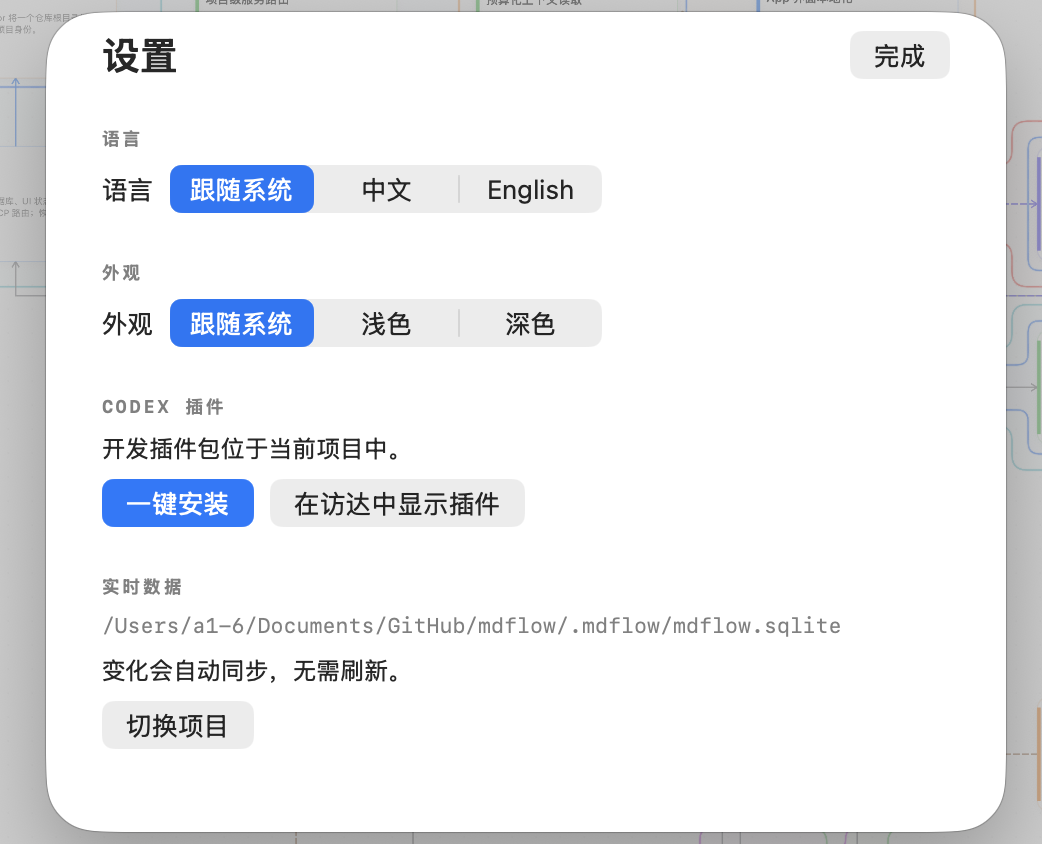
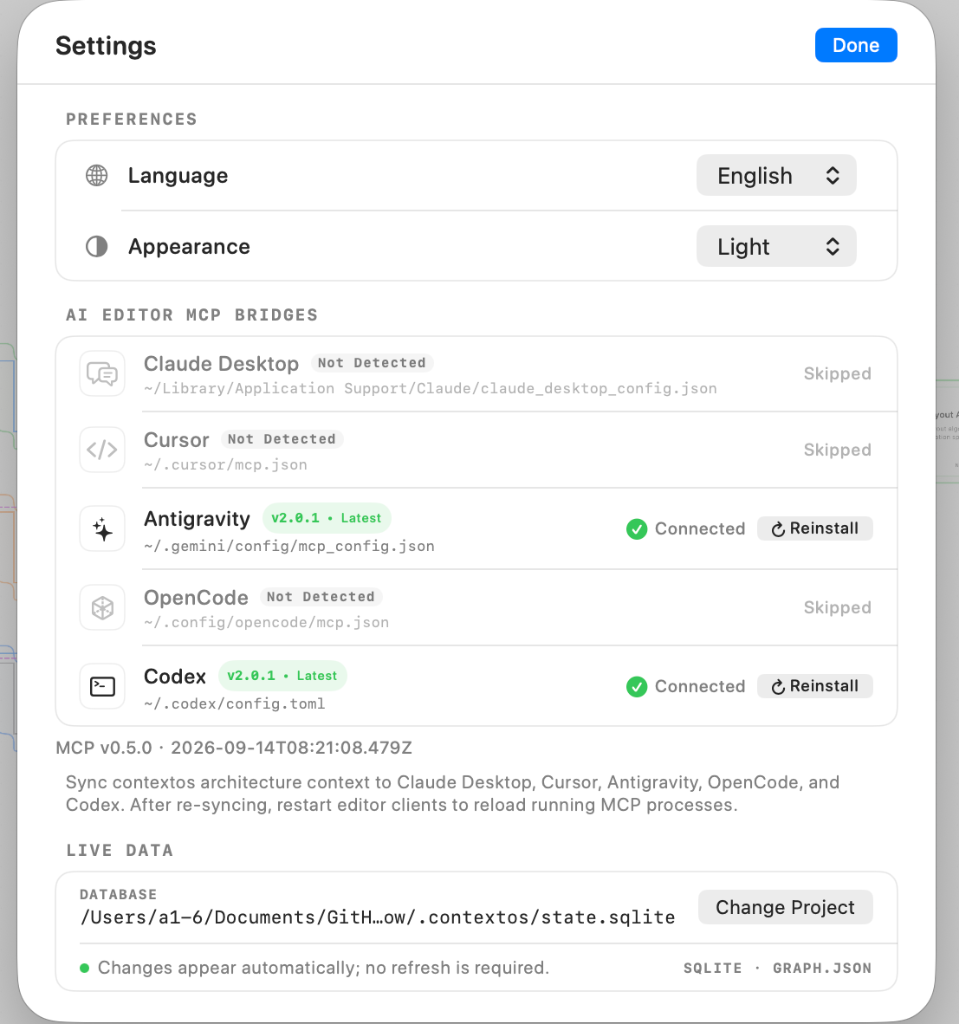
feat(v2.0.2): dual macOS app packaging (Standard & Full), pure English README, and updated settings screenshot

diff --git a/README.md b/README.md
@@ -2,7 +2,7 @@
   <img src="assets/logo.png" width="76" alt="ContextOS" />
   <h1>Automated Context Management: Cut 90% of AI Coding Context Waste.</h1>
   <p><strong>Stopping context window explosion and hallucination in large codebases: surgical AST read/write instead of dumping whole files, out-of-context command receipts, and an intuitive Metro Map architecture.</strong></p>
-  <p><a href="https://github.com/yubinbin32-ops/ContextOS/releases/latest"><strong>Download macOS Desktop App</strong></a> · <a href="#start-in-three-minutes">Start in three minutes</a> · <a href="README_zh.md">中文说明</a></p>
+  <p><a href="https://github.com/yubinbin32-ops/ContextOS/releases/latest"><strong>Download macOS Desktop App</strong></a> · <a href="#start-in-three-minutes">Start in three minutes</a> · <a href="README_zh.md">Simplified Chinese</a></p>
 </div>
 
 ![ContextOS Interactive Workflow Demo](assets/contextos-demo.gif)
@@ -43,29 +43,34 @@ Dev servers, watchers, and background workers are managed by the Process Host an
 
 ## Start in three minutes
 
-ContextOS offers two completely decoupled usage modes:
+ContextOS provides flexible setup options tailored to your environment:
 
-### Mode A: macOS Desktop App (Recommended, Fully Self-Contained, Zero Dependencies)
+### Option 1: macOS Desktop App (Visual Architecture & One-Click Setup)
 
-> [!TIP]
-> **Best for developers looking for out-of-the-box convenience and visual architecture inspection.**
-> The App bundles a standalone Node runtime engine and full MCP services. **You do NOT need Node.js installed on your machine.** Even when the desktop App window is closed, your AI editor can spawn MCP directly in the background. Opening the App reveals the native Metro Map architecture canvas anytime.
+Download the package matching your environment from [GitHub Releases](https://github.com/yubinbin32-ops/ContextOS/releases/latest):
 
-1. [Download the latest App](https://github.com/yubinbin32-ops/ContextOS/releases/latest), unzip it, and drag **ContextOS.app** into `Applications`.
-2. Launch **ContextOS**, open **Settings**, select your detected AI editor (Cursor / Claude Desktop / Antigravity / Windsurf / Codex), and click **Install / Sync Plugin**.
-3. The App injects the bundled runtime and MCP configuration into your editor. **Once configured, you can close the desktop App; it does NOT need to remain open.**
-4. During your AI conversation, simply activate ContextOS with a single prompt:
-   > **"把这个方案写入os后开始执行"** / *"Write this proposal into the OS and start execution"* or **"查看os继续开发"** / *"Inspect the OS and resume development"*
-   The AI will automatically leverage ContextOS for C-D-C-S task lifecycles, surgical AST code tools, out-of-context command receipts, and automated background process cleanup.
+| Package | File | Size | Node.js Requirement | Best For |
+|---|---|---|---|---|
+| **Full Standalone** *(Recommended)* | `ContextOS-macos-full.zip` | ~35 MB | **None** (Bundles standalone Node 22) | Zero-setup, plug-and-play. Ideal if you don't have Node installed. |
+| **Standard Lite** | `ContextOS-macos.zip` | ~1.6 MB | Requires Node.js 22+ on system | Ultra-compact download if you already have Node installed. |
+
+#### Setup Steps:
+1. Unzip the downloaded file and drag **ContextOS.app** into `/Applications`.
+2. Launch **ContextOS**, open **Settings** (gear icon or `Cmd+,`), select your detected AI editor (Cursor / Claude Desktop / Antigravity / OpenCode / Codex), and click **Install / Sync Plugin**.
+3. The App configures your editor to connect to ContextOS MCP. **Once configured, you can close the desktop App; it does NOT need to stay running in the background.**
+4. In your AI coding chat, activate ContextOS with a simple prompt:
+   > *"Write this proposal into ContextOS and start execution"* or *"Inspect ContextOS and resume development"*
+
+   The AI agent will immediately follow the C-D-C-S task lifecycle, perform surgical AST code reads/writes, generate compact command receipts, and safely clean up long-running background processes.
 
 ![One-click editor and MCP synchronization](assets/settings-sync.png)
 
-### Mode B: Lightweight Pure Plugin Stream (For Headless / Linux / CLI Environments)
+### Option 2: Lightweight Pure Plugin Stream (For Headless, Linux, or CLI-Only Workflows)
 
 > [!NOTE]
-> **Best for developers on remote servers or purely terminal-driven setups without desktop GUI.**
-> The plugin package is extremely lightweight (tens of KB) and can be installed via the Codex marketplace or run directly via `npx`.
-> **Prerequisites**: Since the pure plugin runs directly in the host environment, **Node.js 22 or later is required on your machine**.
+> **Best for remote servers, Docker containers, or purely terminal-driven setups without a macOS desktop GUI.**
+> The plugin package is extremely lightweight and runs directly via `npx` or as an editor plugin.
+> **Prerequisites**: Node.js 22 or later installed on the host machine.
 
 ```bash
 # Launch MCP server directly from command line
